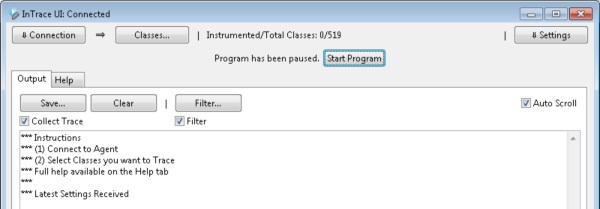
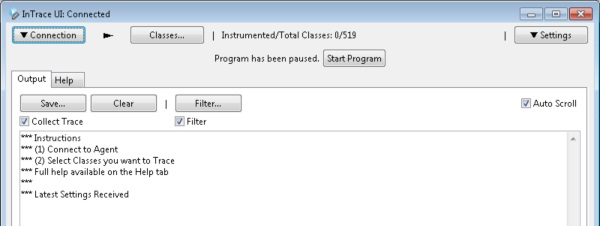
Release 21 updates

Changed region(s): [[0.0, 0.2871, 1.0, 0.9474], [0.0, 0.0287, 0.99, 0.3445], [0.99, 0.0, 1.0, 0.0287]]

diff --git a/screenshots.html b/screenshots.html
@@ -6,12 +6,12 @@ title: InTrace - Screenshots
 
 <h2>Windows</h2>
 
-<p><img src="img/intrace-win.png" />
+<p><img src="img/intrace-win-v2.png" />
 
 <h2>Linux</h2>
 
-<p><img src="img/intrace-linux.png" />
+<p><img src="img/intrace-linux-v2.png" />
 
 <h2>OSX</h2>
 
-<p><img src="img/intrace-osx.png" />
+<p><img src="img/intrace-osx-v2.png" />

diff --git a/releasenotes.html b/releasenotes.html
@@ -22,7 +22,7 @@ title: InTrace - Release Notes
 	<li><a href="http://github.com/mchr3k/org.intrace/tree/master/binaries/jars/latest_development/">Latest Development Build</a></li>
 </ul>
 
-<h2>Release 21, Eclipse Plugin V0.11</h2>
+<h2>Release 21, Eclipse Plugin V0.11 (10/07/2011)</h2>
 <ul>
 <li>Refactor UI
 <ul>

diff --git a/index.html b/index.html
@@ -71,7 +71,7 @@ title: InTrace - Home
 
 <p>See the <a href="ui.html">InTrace UI</a> page for full details about this UI.
 
-<p><img src="https://github.com/mchr3k/org.intrace/raw/master/binaries/images/connectedgui-v3.jpg" />
+<p><img src="img/connectedgui-v4.jpg" />
 
 <h2>Continuous Integration</h2>
 
